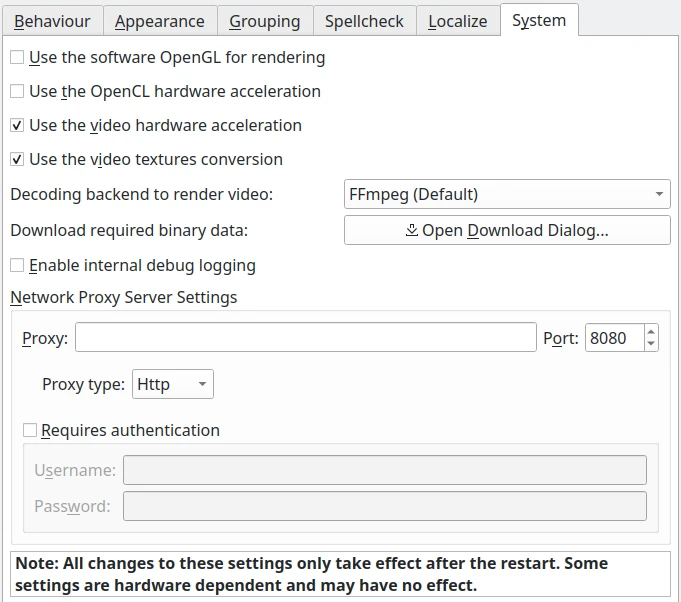
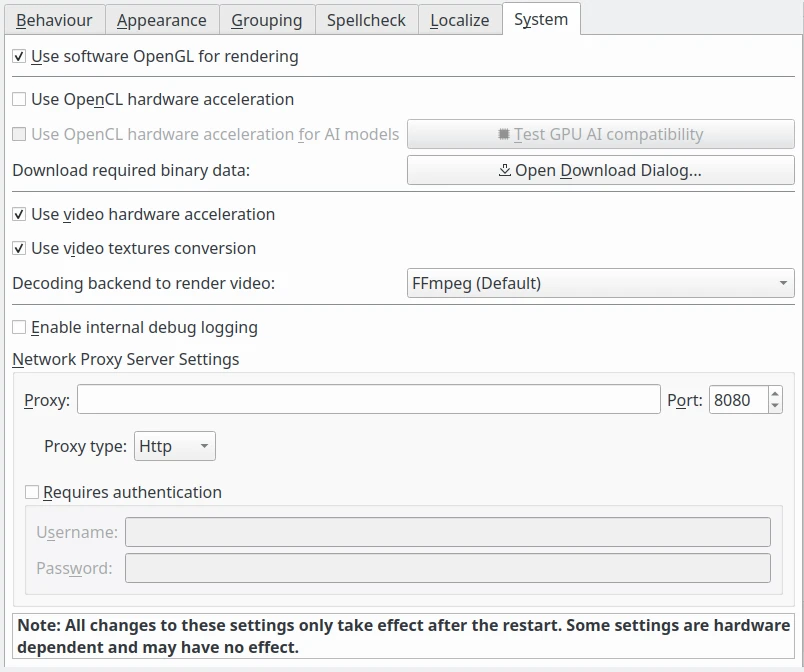
update MISCS/system configuration page expalinations

Changed region(s): [[0.0, 0.0, 1.0, 1.0]]

diff --git a/setup_application/miscs_settings.rst b/setup_application/miscs_settings.rst
@@ -279,6 +279,10 @@ This section allows you to adjust special low-level configurations used by digiK
 
 - **Use the OpenCL hardware acceleration**: this option will enable the GPU hardware accelerations with the face management, image quality scanning, and auto-tags features. This option affects the `OpenCV <https://opencv.org/>`_ engine used in the background for intensive computation on images. To see the details about OpenCV hardware support, go to the :menuselection:`Help --> Components Information` menu item, and look at the :ref:`OpenCV section <help_componentsinfo>` in the dialog.
 
+- **Use the OpenCL hardware acceleration for AI Models**: this option will enable the GPU hardware accelerations with the Artificial Intelligence data model. Typically, the Neural Processing Unit from your video card will be used to handle the inference engine data models. The **Test GPU AI Compatibilty** button allows to start a sequence of checks to report if your hardware supports these features.
+
+- **Download Required Binary Data**: this button loads the deep-learning model files used with the face management, image quality scanning, and auto-tags features. Only use it if you bypassed this stage at the first-run of the application.
+
 - **Use the video hardware acceleration**: this option must be used only with compatible hardware GPU devices with the FFmpeg backend. Disable this option if video media decoding errors occur.
 
 - **Use the video texture conversion**: this option must be used to reduce CPU usage when video frames are rendered by using GPU-based conversion with the FFmpeg backend. Disable this option if video media decoding errors occur.
@@ -301,8 +305,6 @@ This section allows you to adjust special low-level configurations used by digiK
     :align: center
 
     digiKam Running Under Windows With DebugView
-
-- **Download Required Binary Data**: this button loads the deep-learning model files used with the face management, image quality scanning, and auto-tags features. Only use it if you bypassed this stage at the first-run of the application.
 
 - **Network Proxy Server Settings**: use this group the options to setup the `proxy server <https://en.wikipedia.org/wiki/Proxy_server>`_ settings for your local network. Leave empty if no proxy is required to access the Internet. Available Proxy options are listed below:
 
